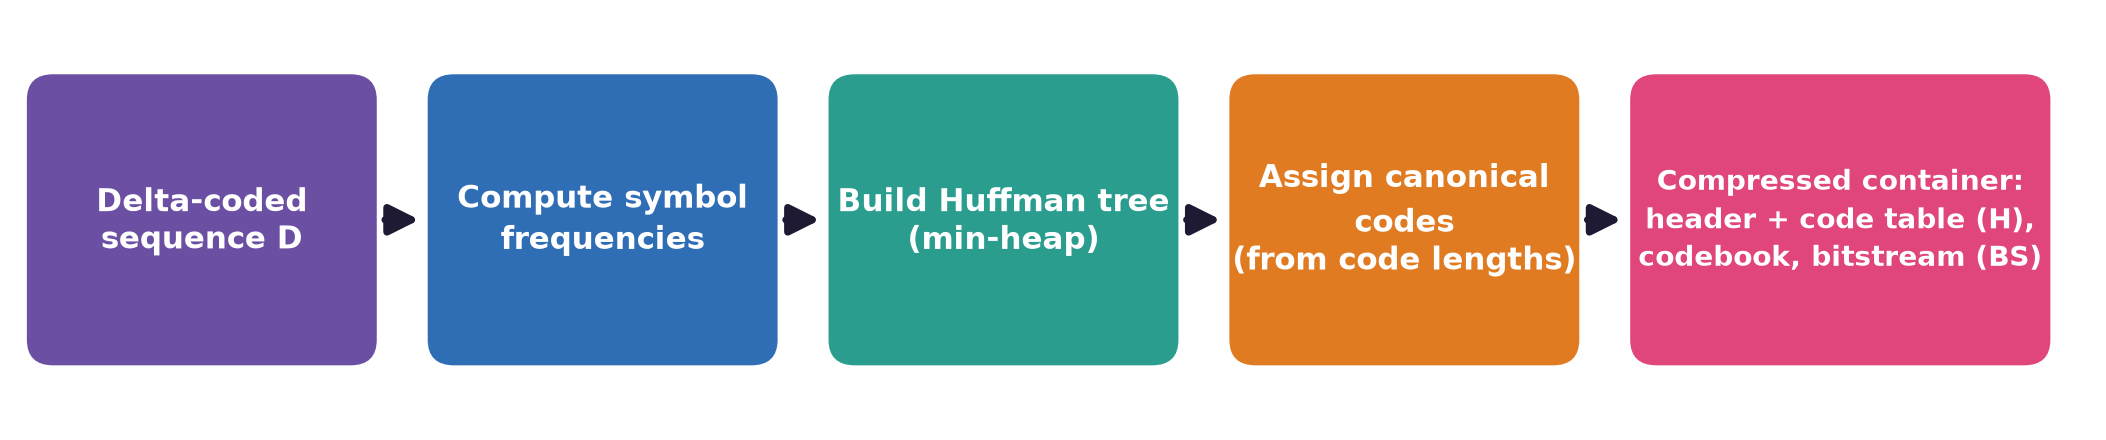
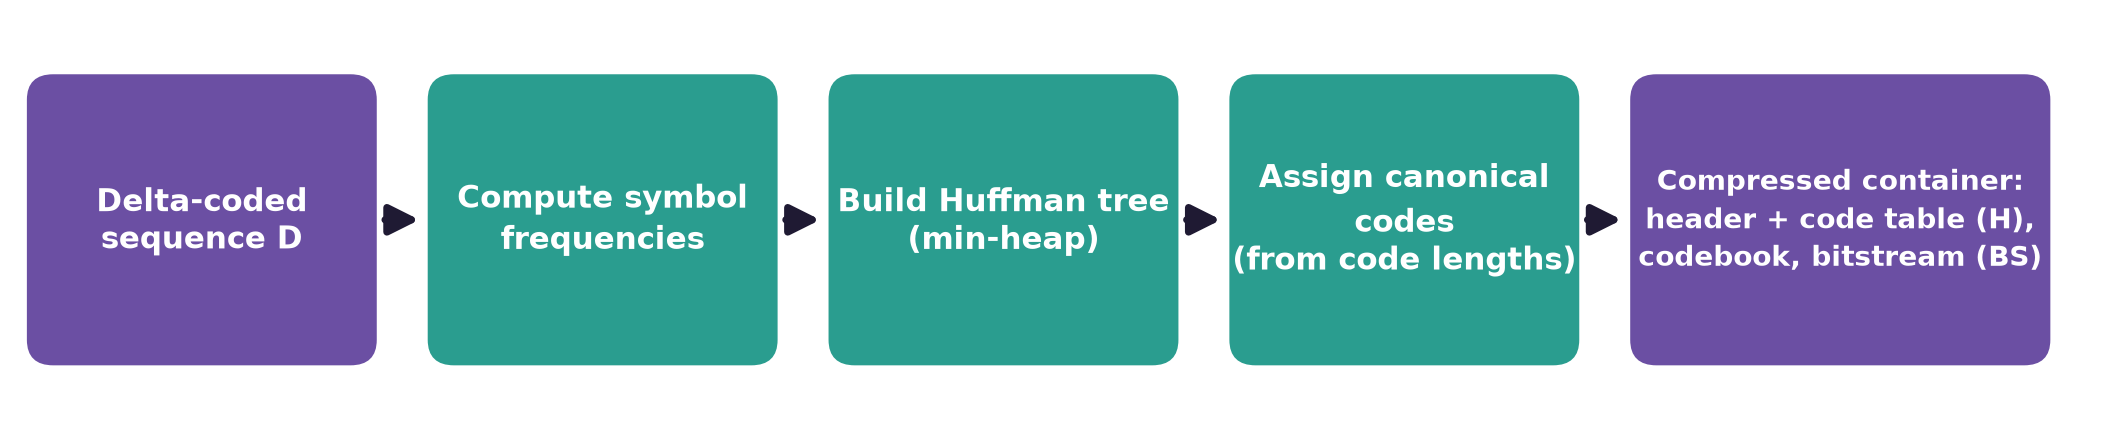
Huffman figures: two-tone palette, consistent code colours
Claude-Session: https://claude.ai/code/session_01T6gEewJ8YaCdmnsfS34RJd

diff --git a/results/seminar/make_huffman_combined.py b/results/seminar/make_huffman_combined.py
@@ -25,7 +25,7 @@ ax.text(4.85, 8.25, "Delta-coded indices D (21 symbols)", ha="center", va="cente
 ax.text(4.85, 7.55, "128 ×7,  127 ×6,  129 ×5,  126 ×2,  130 ×1", ha="center", va="center", fontsize=14, family="monospace", color=INK, fontweight="bold")
 ax.add_patch(FancyArrowPatch((4.85, 7.15), (4.85, 6.6), arrowstyle="-|>", mutation_scale=26, lw=3, color=INK))
 cols = ["Symbol\n(D)", "Frequency", "Huffman\ncode", "Canonical\ncode"]
-xs = [1.2, 3.45, 5.7, 7.95]; ws = [1.9, 2.4, 2.1, 2.1]; cc = [TEAL, TEAL, BLUE, MAG]
+xs = [1.2, 3.45, 5.7, 7.95]; ws = [1.9, 2.4, 2.1, 2.1]; cc = [TEAL, TEAL, TEAL, MAG]
 for x, w, t, col in zip(xs, ws, cols, cc):
     ax.add_patch(FancyBboxPatch((x - w / 2, 5.55), w, 0.95, boxstyle="round,pad=0.02,rounding_size=0.15", fc=col, ec=col))
     ax.text(x, 6.025, t, ha="center", va="center", color="white", fontsize=12.5, fontweight="bold", linespacing=1.1)
@@ -36,13 +36,13 @@ for r, s in enumerate(syms):
     vals = [str(s), str(freq[s]), tree_code[s], canon[s]]
     for i, (x, v) in enumerate(zip(xs, vals)):
         ax.text(x, y, v, ha="center", va="center", fontsize=16, family="monospace" if i != 1 else None,
-                color=(MAG if i == 3 else BLUE if i == 2 else INK), fontweight="bold" if i >= 2 else "normal")
+                color=(MAG if i == 3 else INK), fontweight="bold" if i >= 2 else "normal")
 
 # ---------------- right: tree ----------------
 ox, oy, sx, sy = 10.4, 0.2, 0.93, 1.0   # offset and scale of the tree coordinates
 nodes = {
-    "root": (5.0, 7.0, "21", PUR), "n8": (2.5, 5.55, "8", BLUE), "n13": (7.5, 5.55, "13", BLUE),
-    "n3": (1.3, 4.1, "3", BLUE), "l129": (3.7, 4.1, "5", ORG), "l127": (6.5, 4.1, "6", ORG), "l128": (8.5, 4.1, "7", ORG),
+    "root": (5.0, 7.0, "21", PUR), "n8": (2.5, 5.55, "8", PUR), "n13": (7.5, 5.55, "13", PUR),
+    "n3": (1.3, 4.1, "3", PUR), "l129": (3.7, 4.1, "5", ORG), "l127": (6.5, 4.1, "6", ORG), "l128": (8.5, 4.1, "7", ORG),
     "l130": (0.45, 2.65, "1", ORG), "l126": (2.15, 2.65, "2", ORG),
 }
 edges = [("root", "n8", "0"), ("root", "n13", "1"), ("n8", "n3", "0"), ("n8", "l129", "1"),
@@ -54,7 +54,7 @@ for a, b, lab in edges:
     xa, ya = P(*nodes[a][:2]); xb, yb = P(*nodes[b][:2])
     ax.plot([xa, xb], [ya - 0.3, yb + 0.3], color="#7F8FA9", lw=3, zorder=1)
     ax.text((xa + xb) / 2 + (-0.28 if lab == "0" else 0.28), (ya + yb) / 2 + 0.1, lab, ha="center", va="center",
-            fontsize=15, fontweight="bold", color=MAG, bbox=dict(boxstyle="circle,pad=0.1", fc="white", ec="none"))
+            fontsize=15, fontweight="bold", color=DEEP, bbox=dict(boxstyle="circle,pad=0.1", fc="white", ec="none"))
 for k, (x, y, t, col) in nodes.items():
     px, py = P(x, y)
     ax.add_patch(Circle((px, py), 0.42, fc=col, ec="white", lw=2, zorder=3))
@@ -63,7 +63,7 @@ for k, s in leaf.items():
     px, py = P(*nodes[k][:2])
     ax.add_patch(FancyBboxPatch((px - 0.62, py - 1.45), 1.24, 0.95, boxstyle="round,pad=0.02,rounding_size=0.12", fc=YEL, ec=TEAL, lw=2.2, zorder=2))
     ax.text(px, py - 0.82, str(s), ha="center", va="center", fontsize=14.5, fontweight="bold", color=INK, family="monospace")
-    ax.text(px, py - 1.17, tree_code[s], ha="center", va="center", fontsize=14.5, fontweight="bold", color=BLUE, family="monospace")
+    ax.text(px, py - 1.17, tree_code[s], ha="center", va="center", fontsize=14.5, fontweight="bold", color=INK, family="monospace")
 
 ax.add_patch(FancyArrowPatch((9.75, 3.0), (10.2, 3.0), arrowstyle="-|>", mutation_scale=1, lw=0))
 ax.text(10.0, 0.45, f"Huffman-encoded payload = Σ f·l = {bits} bits (header not included; fixed 3-bit code: {3 * N} bits)    L = {avg:.2f}    H = {H:.2f} bits/symbol",

diff --git a/results/seminar/make_huffman_figs.py b/results/seminar/make_huffman_figs.py
@@ -5,7 +5,7 @@ from matplotlib.patches import FancyBboxPatch, FancyArrowPatch
 INK="#1F1A33";DEEP="#2E2055";PURPLE="#6B4FA3";MAG="#E0457B";TEAL="#2A9D8F";GOLD="#F2B134";ORG="#E07B22";BLUE="#2F6DB5"
 # ---------- figure 1: coloured flow ----------
 fig,ax=plt.subplots(figsize=(13.33,2.6),dpi=200); ax.set_xlim(0,100); ax.set_ylim(0,20); ax.axis("off")
-steps=[("Delta-coded\nsequence D",PURPLE),("Compute symbol\nfrequencies",BLUE),("Build Huffman tree\n(min-heap)",TEAL),("Assign canonical\ncodes\n(from code lengths)",ORG),("Compressed container:\nheader + code table (H),\ncodebook, bitstream (BS)",MAG)]
+steps=[("Delta-coded\nsequence D",PURPLE),("Compute symbol\nfrequencies",TEAL),("Build Huffman tree\n(min-heap)",TEAL),("Assign canonical\ncodes\n(from code lengths)",TEAL),("Compressed container:\nheader + code table (H),\ncodebook, bitstream (BS)",PURPLE)]
 w=16.4;gap=3.0;x=0.6
 for i,(t,c) in enumerate(steps):
     ww=w+(3.4 if i==4 else 0)
@@ -14,31 +14,3 @@ for i,(t,c) in enumerate(steps):
     if i<4: ax.add_patch(FancyArrowPatch((x+ww+0.4,10),(x+ww+gap-0.4,10),arrowstyle="-|>",mutation_scale=22,lw=2.6,color=INK))
     x+=ww+gap
 plt.savefig("figs/huffman_flow.png",bbox_inches="tight",facecolor="white"); plt.close()
-# ---------- figure 2: simple worked example (Cover & Thomas, Example 5.6.1) ----------
-P=[0.25,0.25,0.20,0.15,0.15]; sym=[1,2,3,4,5]
-h=[(p,i,[i]) for i,p in enumerate(P)]; heapq.heapify(h); L=[0]*5; cnt=10
-while len(h)>1:
-    a=heapq.heappop(h); b=heapq.heappop(h)
-    for s in a[2]+b[2]: L[s]+=1
-    heapq.heappush(h,(a[0]+b[0],cnt,a[2]+b[2])); cnt+=1
-# canonical assignment
-order=sorted(range(5),key=lambda i:(L[i],sym[i])); code={}; c=0; prev=L[order[0]]
-for k,i in enumerate(order):
-    if k>0: c=(c+1)<<(L[i]-prev)
-    code[i]=format(c,"0%db"%L[i]); prev=L[i]
-avg=sum(p*l for p,l in zip(P,L)); H=-sum(p*math.log2(p) for p in P)
-print("lengths",L,"codes",[code[i] for i in range(5)],"avg",avg,"H",round(H,3))
-fig,ax=plt.subplots(figsize=(9.5,4.2),dpi=200); ax.axis("off"); ax.set_xlim(0,10); ax.set_ylim(-0.7,5.4)
-cols=["Symbol","Probability","Code length\n(Huffman)","Canonical\ncodeword"]; xs=[1.3,3.7,6.1,8.5]
-for x_,t in zip(xs,cols):
-    ax.add_patch(FancyBboxPatch((x_-1.05,4.1),2.1,0.95,boxstyle="round,pad=0.02,rounding_size=0.12",fc=TEAL,ec=TEAL))
-    ax.text(x_,4.58,t,ha="center",va="center",color="white",fontsize=10.5,fontweight="bold",linespacing=1.2)
-for r,i in enumerate(range(5)):
-    y=3.55-r*0.62; f="#EAF6F4" if r%2==0 else "white"
-    ax.add_patch(FancyBboxPatch((0.1,y-0.27),9.8,0.54,boxstyle="round,pad=0.01,rounding_size=0.08",fc=f,ec="none"))
-    for x_,v,col in zip(xs,[str(sym[i]),f"{P[i]:.2f}",str(L[i]),code[i]],[INK,INK,INK,MAG]):
-        ax.text(x_,y,v,ha="center",va="center",fontsize=12,color=col,fontweight="bold" if col==MAG else "normal",family="monospace" if col==MAG else None)
-ax.text(5,0.38,f"Average length  L = Σ p·l = {avg:.2f} bits/symbol,   Entropy  H = {H:.3f} bits/symbol",ha="center",va="center",fontsize=10.5,color=DEEP,fontweight="bold")
-ax.text(5,-0.08,"H ≤ L < H + 1",ha="center",va="center",fontsize=10.5,color=DEEP,fontweight="bold")
-ax.text(5,-0.5,"Example: Cover and Thomas, Elements of Information Theory, Example 5.6.1 (canonical codewords added)",ha="center",va="center",fontsize=8.5,color="#5B6770",style="italic")
-plt.savefig("figs/huffman_example.png",bbox_inches="tight",facecolor="white"); plt.close()
